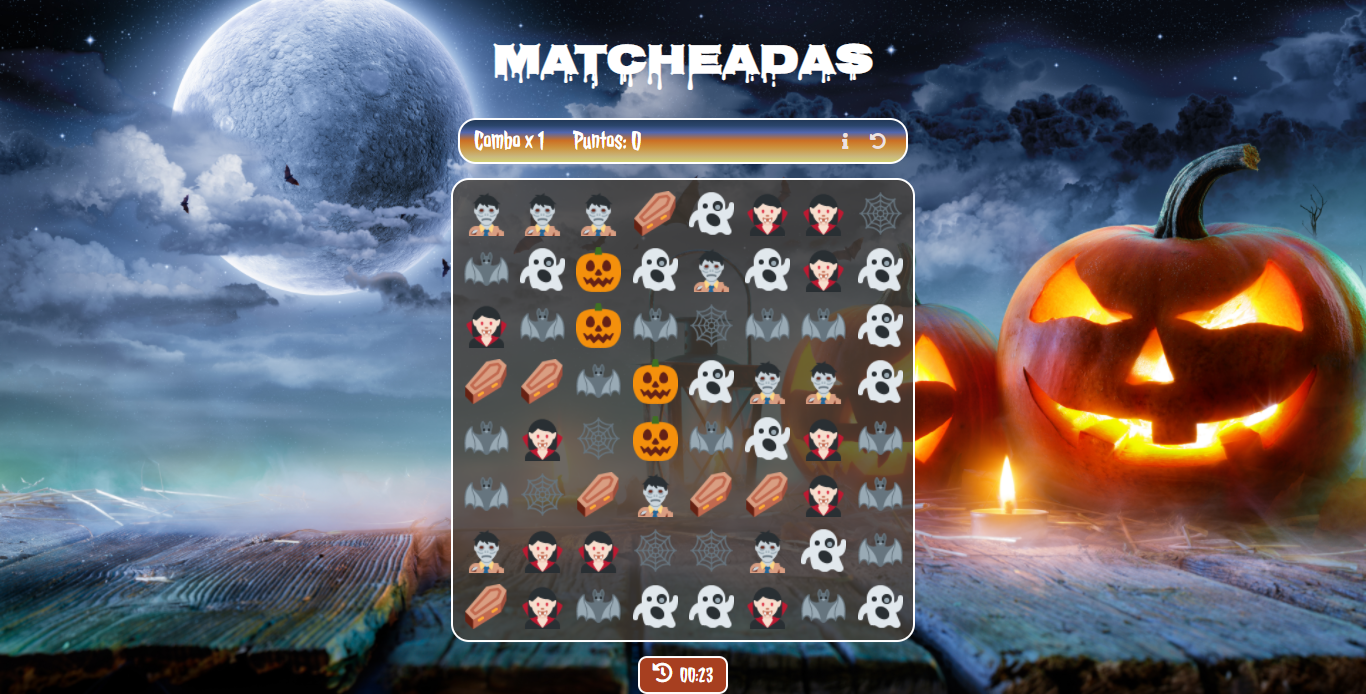
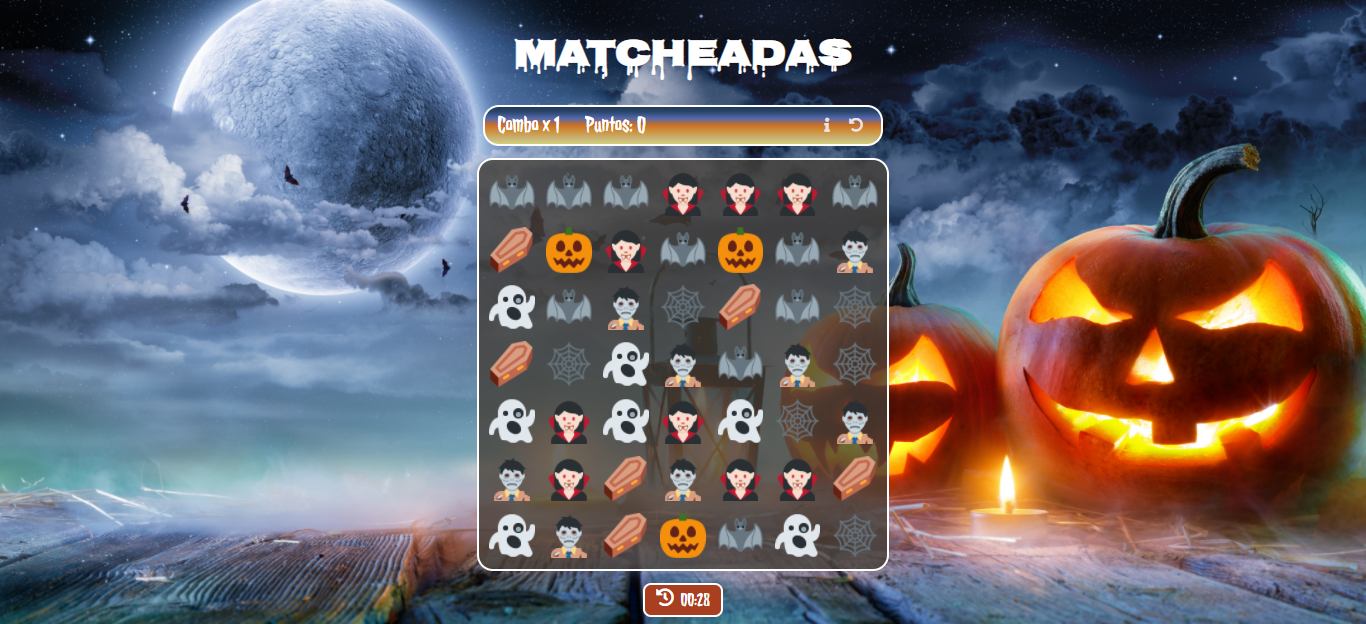
UPDATE/Se agrega responsibve y modificaciones de algunos estilos

diff --git a/css/style.css b/css/style.css
@@ -28,7 +28,7 @@ body {
     justify-content: center;
     align-items: center;
     flex-direction: column;
-    width: 520px;
+    /* width: 520px; */
     max-width: 500px;
     margin: auto;
     position: relative;
@@ -38,8 +38,8 @@ body {
 .control-status {
     margin-top: 4%;
     display: flex;
-    width: 100%;
-    background-image: linear-gradient(to top, #d5d672 0%, #c9b77e 15%, #cc943f 35%, #cc7024 52%, #5267ad 71%, #2a456b 87%, #223857 100%);   
+    width: 95%;
+    background-image: linear-gradient(to top, #d5d672 0%, #c9b77e 15%, #cc943f 35%, #cc7024 52%, #5267ad 71%, #2a456b 87%, #223857 100%);
     justify-content: space-between;
     padding: 1% 3%;
     font-size: 1.8rem;
@@ -55,21 +55,21 @@ body {
 }
 
 
-.btn-control{
+.btn-control {
     display: flex;
     justify-content: space-between;
 }
 
-.btn-control button{
+.btn-control button {
     background-color: transparent;
     outline: none;
     border: none;
     cursor: pointer;
     margin-left: 10px;
-    
+
 }
 
-.btn-control i{
+.btn-control i {
     font-size: 1.1rem;
     color: rgb(236, 226, 226);
     padding: 7px;
@@ -78,19 +78,22 @@ body {
 }
 
 
-.btn-control i:hover{
+.btn-control i:hover {
     background-color: #223A5C;
     border: 1px solid white;
     border-radius: 50%;
 }
 
-button:hover .fa-undo-alt{
+button:hover .fa-undo-alt {
     transform: rotate(-180deg);
 }
 
 
 /* Styles Grid */
-.container-grid{
+.container-grid {
+    width: 95%;
+    max-height: 500px;
+    min-height: 300px;
     background-color: rgba(68, 62, 54, 0.781);
     border-radius: 20px;
     border: 3px solid white;
@@ -98,16 +101,16 @@ button:hover .fa-undo-alt{
     padding: 5px;
 }
 
-.grid{
+.grid {
     display: flex;
     flex-wrap: wrap;
-    width: 500px;
-    height: 500px;
+    /* width: 500px;
+    height: 500px; */
     justify-content: center;
     align-items: center;
 }
 
-.grid div{
+.grid div {
     display: flex;
     width: 45px;
     height: 45px;
@@ -118,16 +121,16 @@ button:hover .fa-undo-alt{
 }
 
 img.emoji {
-   width: 80%;
-   transform: scale(1.0);
-   transition: 0.2s;
+    width: 80%;
+    transform: scale(1.0);
+    transition: 0.2s;
     margin: 0 .05em 0 .1em;
     vertical-align: -0.1em;
 }
 
 
 /* timer */
-.time{
+.time {
     display: flex;
     flex-direction: row;
     width: 20%;
@@ -144,9 +147,30 @@ img.emoji {
 
 
 /* Style para select emoji */
-.select{
+.select {
     border: 1px outset rgb(141, 129, 129);
     border-radius: 5px;
     background-color: rgba(61, 56, 49, 0.781);
 
+}
+
+@media (max-width:550px) {
+    .title {
+        font-size: 2rem;
+    }
+}
+
+@media (max-width:360px) {
+    .title {
+        font-size: 1.5rem;
+    }
+
+    .control-status {
+        font-size: 1.4rem;
+    }
+
+    .time {
+        width: 25%;
+        font-size: 1.2rem;
+    }
 }

diff --git a/index.html b/index.html
@@ -15,7 +15,7 @@
     <meta property="og:type" content="article">
     <meta property="og:site name" content="Matcheadas">
     <meta property="og:url" content="https://silbordon.github.io/proyecto-matcheADAs/">
-    <meta property="og:image" content="">
+    <meta property="og:image" content="https://github.com/Silbordon/proyecto-matcheADAs/blob/accessibility/img/matcheadas.png?raw=true">
 
 
     <!-- Twitter -->
@@ -23,7 +23,7 @@
     <meta property="twitter:url" content="https://silbordon.github.io/proyecto-matcheADAs/">
     <meta property="twitter:title" content="Matcheadas">
     <meta property="twitter:description" content="Juego de navegador conocido como Mat-3">
-    <meta property="twitter:image" content="">
+    <meta property="twitter:image" content="https://github.com/Silbordon/proyecto-matcheADAs/blob/accessibility/img/matcheadas.png?raw=true">
 
 
     <!--Links -->
@@ -74,8 +74,7 @@
 
 
         <!-- Start Section Grilla -->
-        <section class="container-grid">
-
+        <section id="grid-container" class="container-grid">
             <article id="grid" class="grid"></article>
         </section>
         <!-- Final Section Grilla -->
@@ -90,7 +89,6 @@
         </section>
         <!-- Final Section Timer -->
     </main>
-
     <script src="js/modales.js"></script>
     <script src="js/app.js"></script>
 </body>

diff --git a/js/app.js b/js/app.js
@@ -1,11 +1,12 @@
 
 //General
-const grid = document.getElementById('grid'); //grid container
+const grid = document.getElementById('grid'); //grid 
 const emojis = ['🎃', '⚰', '👻', '🕸', '🧛🏻♀', '🦇', '\uD83E\uDDDF\u200D\u2642\uFE0F'];
 const infoButton = document.getElementById('info'); //Button info
 const resetButton = document.getElementById('reset'); //Button reset
+const gridContainer = document.getElementById('grid-container'); //Grid container
 let gridArr = [];
-
+let ancho;
 
 
 //Timer
@@ -31,8 +32,8 @@ const getBox = (x,y) => {
   box.dataset.x = x;
   box.dataset.y = y;
   box.innerHTML = gridArr[i][j];
-  box.style.width = `${500 / level}px`;
-  box.style.height = `${500 / level}px`;
+  box.style.width = `${(ancho / level - 5).toFixed(0)}px`;
+  box.style.height = `${(ancho / level - 5).toFixed(0)}px`;
   grid.appendChild(box);
   box.addEventListener("click", selectBox);
 };
@@ -139,5 +140,17 @@ const isAdjancent = (box1, box2) => {
 
 
 
+//Responsive Grid
 
+const resize = () => {
+  ancho = (gridContainer.getBoundingClientRect().width)
+  if(innerWidth > 550){
+      return
+  } else {
+      gridContainer.style.width = `${ancho}px`
+      gridContainer.style.height = `${ancho}px`
+  }
+  return ancho
+}
 
+window.onload = resize;

diff --git a/README.md b/README.md
@@ -1,0 +1,50 @@
+# **👻MatcheAdas por Silvina Bordon 🎃**  
+Esta aplicación es un juego cuyo objetivo es lograr encontrar coincidencia de 3 o mas items iguales para acumular puntos en un periodo de tiempo determinado. Proyecto realizado como evaluacion final del modulo del curso de desarrollo FrontEnd Ada, utilizando HTML, CSS y JavaScript.
+
+
+#### ⏩Si quieres JUGARLO puedes hacer click en este [enlace](https://silbordon.github.io/proyecto-matcheADAs/).
+
+![MatcheAdas](./img/matcheadas.png)
+***
+
+
+## **Instalación** 👈🏻
+
+### Para clonar este repositorio tienes que seguir estos pasos:
+
+<br>
+
+ - Ir al [repositorio](https://github.com/Silbordon/proyecto-matcheADAs)  
+ - Hacer click al botón de ![imagen](./img/Fork.PNG)
+ - Hacer click al botón de ![code](./img/Code.PNG)
+
+ - Copiar la URL haciendo click al boton ![url](./img/Copiar.PNG)
+ - Abrir tu terminal y poner el comando de 
+   ```
+   git clone <url> 
+   ```
+ - Entrar a la carpeta del proyecto y abrirlo en tu IDE
+
+
+<br>
+
+ 🔧 **Este proyecto requiere las siguientes dependencias**
+
+<!-- <br> -->
+📁 [SweetAlert](https://sweetalert.js.org/)
+
+
+📁  [Twemoji](https://twemoji.twitter.com/)
+
+<br>
+
+***
+
+
+## **Agradecimiento** 🥰😘
+
+- Quiero agradecer a nuestro profe [Jonh](https://github.com/Jonhks) y a [Leydy](https://github.com/leydyk93) por su paciencia y ayuda constante para que podamos aprender, y a todas mis compañeras por el apoyo diario.
+
+- A mi esposo por ser mi soporte todos los dias, recordandome que nunca es tarde para aprender cosas nuevas y por ayudarme a recorrer el maravilloso mundo de la programación.
+
+#### *De Silvi con ❤*
